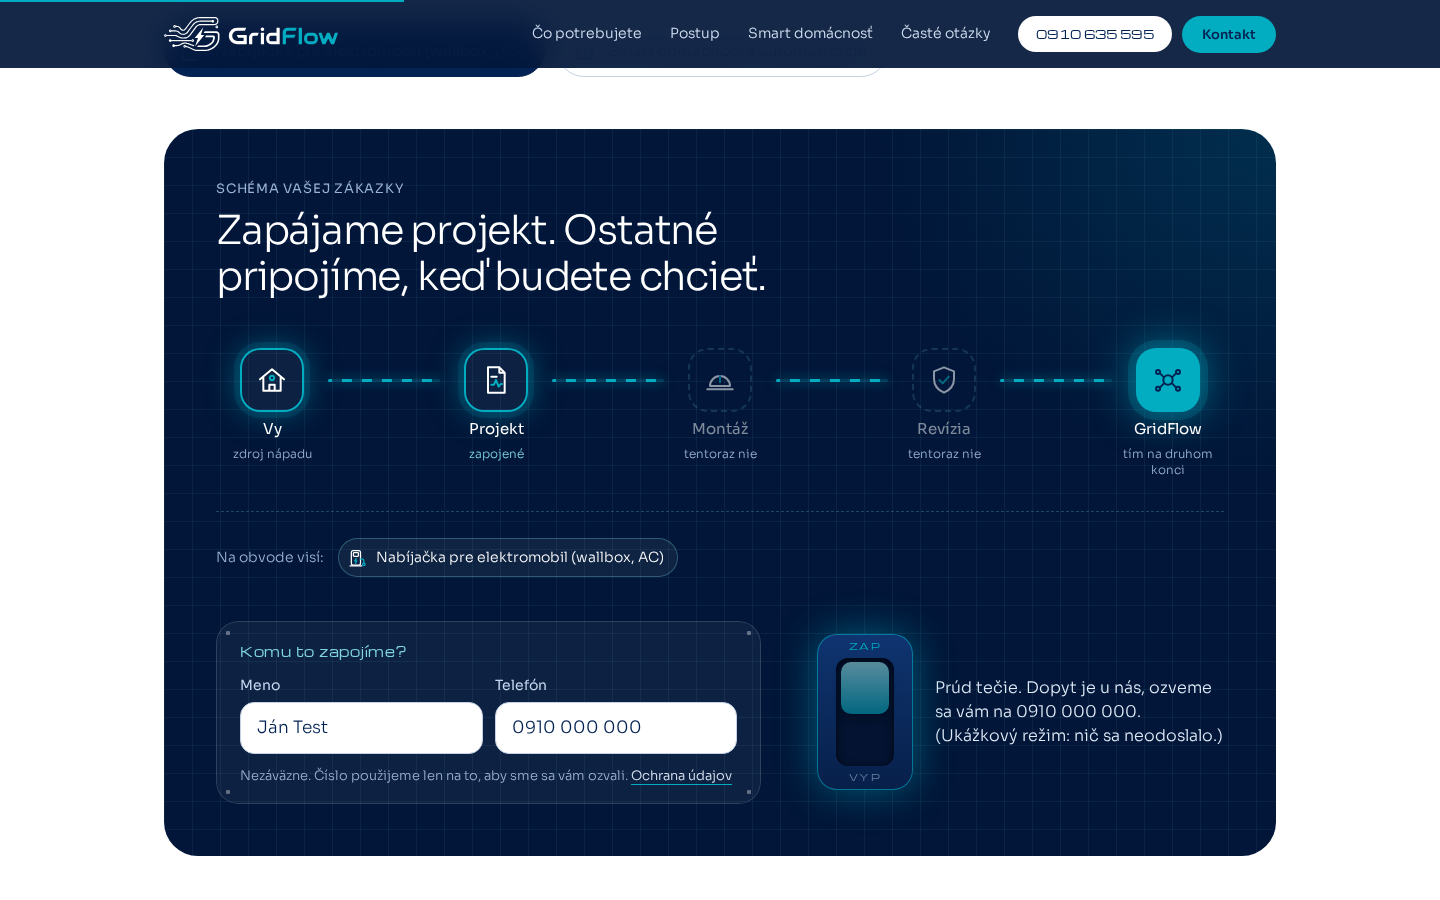
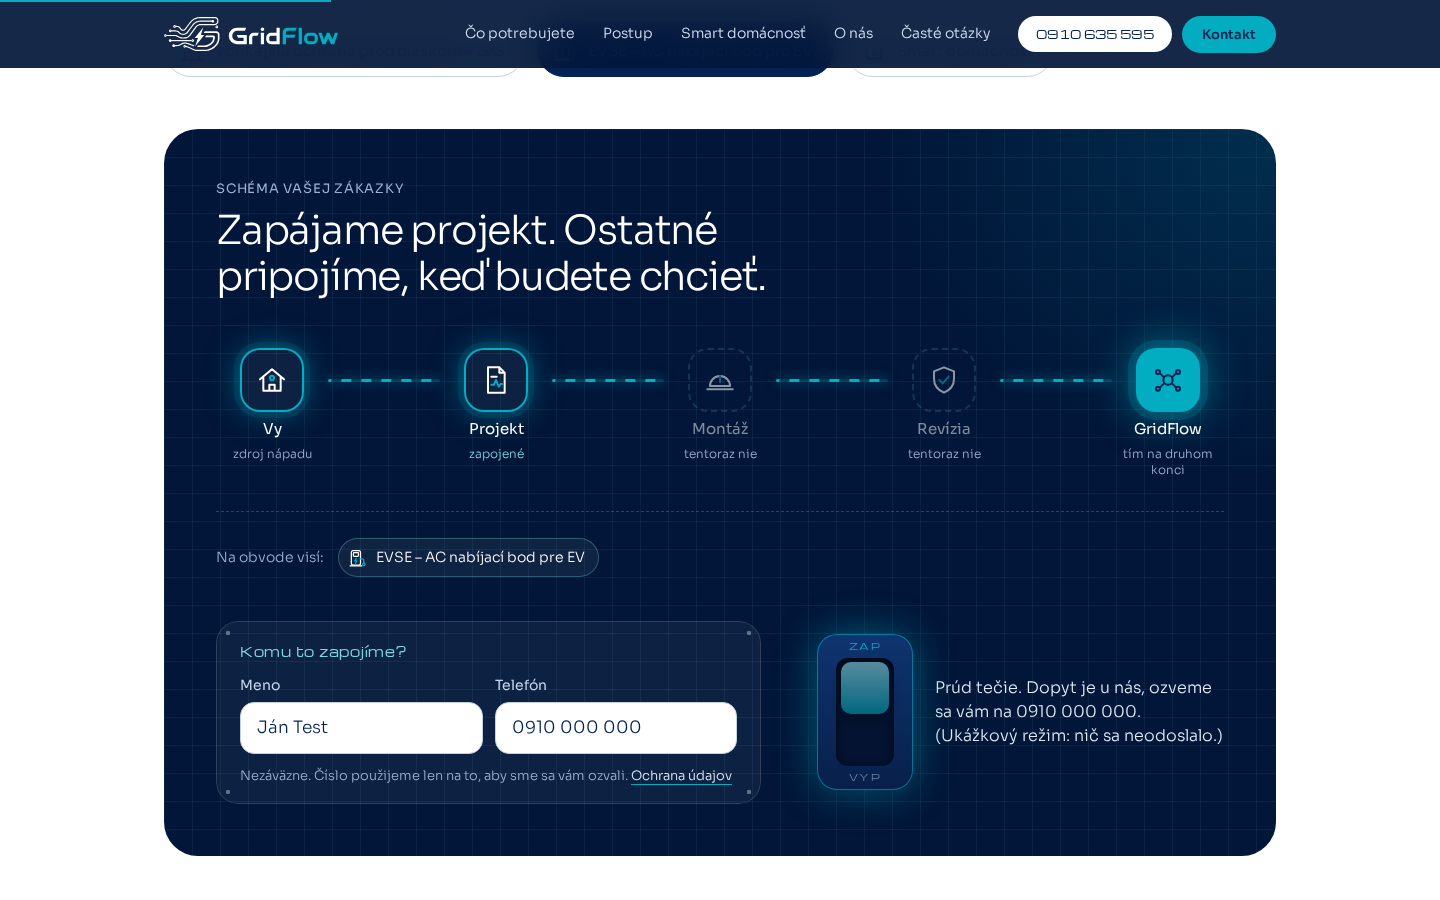
Pripomienky klienta: hero, výber, vypínač, Smart domácnosť, logá partnerov, O nás, DIČ
- Hero: nový nadpis (elektroinštalácia, fotovoltika, smart domácnosť), bez
  telefónu, bez karty Dom, ktorý šetrí a bez pruhu faktov
- Názvy služieb podľa klienta (LPS, EVSE AC nabíjací bod, Elektroinštalácia,
  Smart domácnosť) na domovskej stránke aj v Kontakte
- Istič -> vypínač, nový text výzvy
- Postup: bez rozsahu E1A, E1B
- Smart domácnosť: reťaz Shelly -> HomeMaster MiniPLC -> Home Assistant ->
  úspora a karta MiniPLC s oficiálnou fotkou a logom HomeMaster
- Partneri: oficiálne logá SolaX a HomeMaster (logo Deye zatiaľ chýba)
- Nová sekcia O nás s príbehom značky, odkaz v navigácii
- DIČ v päte, v Kontakte a v Zásadách; všade fotovoltika namiesto solár

Claude-Session: https://claude.ai/code/session_016vqBSRsT7UBbtm5Dk1d2tq

Changed region(s): [[0.125, 0.0311, 0.5938, 0.0933], [0.25, 0.5911, 0.4688, 0.6533]]

diff --git a/src/styles/home.css b/src/styles/home.css
@@ -831,3 +831,58 @@ textarea.inp{min-height:84px;padding:14px 16px;line-height:1.5;resize:vertical}
 .gf .hp{position:absolute;left:-9999px;width:1px;height:1px;opacity:0;pointer-events:none}
 .gf .ferr{margin-top:12px;font-size:14px;line-height:1.5;color:#b3261e}
 .gf .demo{margin-top:10px;font-size:13px;color:#4a5f80}
+
+/* ===== pripomienky 2026-10: Smart domácnosť, partneri (logá), O nás ===== */
+/* Smart domácnosť: reťaz systému (linka ako v logu) */
+.chain{list-style:none;position:relative;display:grid;grid-template-columns:repeat(4,minmax(0,1fr));gap:14px;--ic1:#fff;--ic2:var(--cyan)}
+.gf .chain{margin-top:clamp(56px,7vw,96px)}
+.chain::before{content:"";position:absolute;left:12.5%;right:12.5%;top:34px;height:3px;border-radius:2px;background:linear-gradient(90deg,rgba(2,172,193,.25),var(--cyan) 30%,var(--cyan) 70%,rgba(2,172,193,.25))}
+.chain li{position:relative;display:flex;flex-direction:column;align-items:center;text-align:center;gap:6px;padding:0 10px}
+.ch-i{display:grid;place-items:center;width:72px;height:72px;margin-bottom:14px;border-radius:50%;background:var(--deep);border:4px solid var(--cyan)}
+.ch-i .ico{--s:30px}
+.chain b{font:400 clamp(17px,1.5vw,20px)/1.25 var(--sora);color:#fff}
+.chain small{font-size:14px;line-height:1.5;color:var(--muted-d);max-width:16em}
+/* Smart domácnosť: HomeMaster MiniPLC */
+.hmx{display:grid;grid-template-columns:minmax(0,5fr) minmax(0,7fr);gap:clamp(24px,4vw,56px);align-items:center;padding:clamp(18px,2.6vw,32px);border-radius:34px;background:rgba(255,255,255,.04);box-shadow:inset 0 0 0 1px rgba(255,255,255,.12)}
+.gf .hmx{margin-top:clamp(56px,7vw,96px)}
+.hmx-img{aspect-ratio:4/3;border-radius:24px;background:#fff;overflow:hidden}
+.hmx-img img{display:block;width:100%;height:100%;object-fit:cover}
+.hmx-logo{display:block;width:84px;height:84px;border-radius:18px;background:#fff;padding:6px}
+.gf .hmx-body .rules-t{margin:24px 0 0}
+.hmx h3{font:300 clamp(26px,2.8vw,40px)/1.1 var(--sora);letter-spacing:-.03em;color:#e9f0fb}
+.gf .hmx h3{margin:10px 0 0}
+.gf .hmx-body>p:not(.rules-t){margin-top:16px;max-width:34em;font-size:16px;line-height:1.65;color:#c6d6ee}
+.hmx-spec{list-style:none;display:flex;flex-wrap:wrap;gap:8px}
+.gf .hmx-spec{margin-top:22px}
+.hmx-spec li{padding:9px 14px;border-radius:999px;font-size:13px;line-height:1.2;color:#d7e3f6;box-shadow:inset 0 0 0 1px rgba(255,255,255,.2)}
+/* Partneri: oficiálne logá */
+.plogos li{background:#fff;box-shadow:inset 0 0 0 1px var(--line);min-height:230px}
+.gf .pgrid.plogos .wm{display:flex;align-items:center;height:104px}
+.plogos .wm img{display:block;width:auto;height:auto;max-width:min(250px,100%);max-height:104px;object-fit:contain}
+/* O nás */
+.about{position:relative;background:var(--deep);color:#fff;padding:clamp(80px,10vw,140px) 0;overflow:hidden;isolation:isolate}
+.about::before{content:"";position:absolute;z-index:-1;inset:0;background:radial-gradient(45% 60% at 10% 90%,rgba(2,172,193,.16),transparent 70%)}
+.about-grid{display:grid;grid-template-columns:minmax(0,5fr) minmax(0,7fr);gap:clamp(32px,6vw,96px);align-items:start}
+.about h2.h{color:#e9f0fb;font-size:clamp(30px,4vw,60px)}
+.gf .about-head .rules-t{margin:0 0 18px}
+.gf .about-body p{margin-top:22px;max-width:36em;font-size:clamp(16px,1.25vw,18px);line-height:1.7;color:#c6d6ee}
+.gf .about-body .about-lead{margin-top:0;font-size:clamp(19px,1.7vw,24px);line-height:1.45;color:#fff}
+.gfdef{display:grid;grid-template-columns:repeat(2,minmax(0,1fr));gap:14px}
+.gf .gfdef{margin-top:28px}
+.gfdef div{padding:22px 24px 24px;border-radius:26px;background:rgba(255,255,255,.04);box-shadow:inset 0 0 0 1px rgba(255,255,255,.12)}
+.gfdef dt{font:400 clamp(26px,2.6vw,36px)/1 var(--mich);color:#fff}
+.gfdef div+div dt{color:var(--cyan)}
+.gfdef dd{margin:12px 0 0;font-size:15px;line-height:1.55;color:#c6d6ee}
+@media (max-width:960px){
+  .hmx,.about-grid{grid-template-columns:minmax(0,1fr)}
+}
+@media (max-width:720px){
+  .chain{grid-template-columns:minmax(0,1fr);gap:22px}
+  .chain::before{left:34px;right:auto;top:24px;bottom:24px;width:3px;height:auto;background:linear-gradient(180deg,rgba(2,172,193,.25),var(--cyan) 20%,var(--cyan) 80%,rgba(2,172,193,.25))}
+  .chain li{display:grid;grid-template-columns:72px minmax(0,1fr);column-gap:16px;align-items:center;text-align:left;padding:0}
+  .ch-i{grid-row:span 2;margin:0}
+  .chain b{align-self:end}
+  .chain small{align-self:start}
+  .gfdef{grid-template-columns:minmax(0,1fr)}
+  .plogos li{min-height:0}
+}

diff --git a/src/scripts/home.js b/src/scripts/home.js
@@ -1,4 +1,4 @@
-// Výber riešenia a „schéma zákazky“ s ističom na domovskej stránke.
+// Výber riešenia a „schéma zákazky“ s vypínačom na domovskej stránke.
 import { validName, validPhone, sendInquiry } from './send.js';
 
 const circ = document.querySelector('[data-circ]');
@@ -68,8 +68,8 @@ if (circ) {
       : st.error
         ? 'Dopyt sa nepodarilo odoslať. Skúste to znova alebo zavolajte na 0910 635 595.'
         : ok
-          ? 'Všetko zapojené. Zapnite istič.'
-          : 'Doplňte meno a číslo. Potom zapnete istič a dopyt je na ceste.';
+          ? 'Všetko zapojené. Zapnite vypínač.'
+          : 'Doplňte meno a číslo. Potom zapnite vypínač a my sa vám ozveme.';
   }
 
   stageBtns.forEach((b) =>
